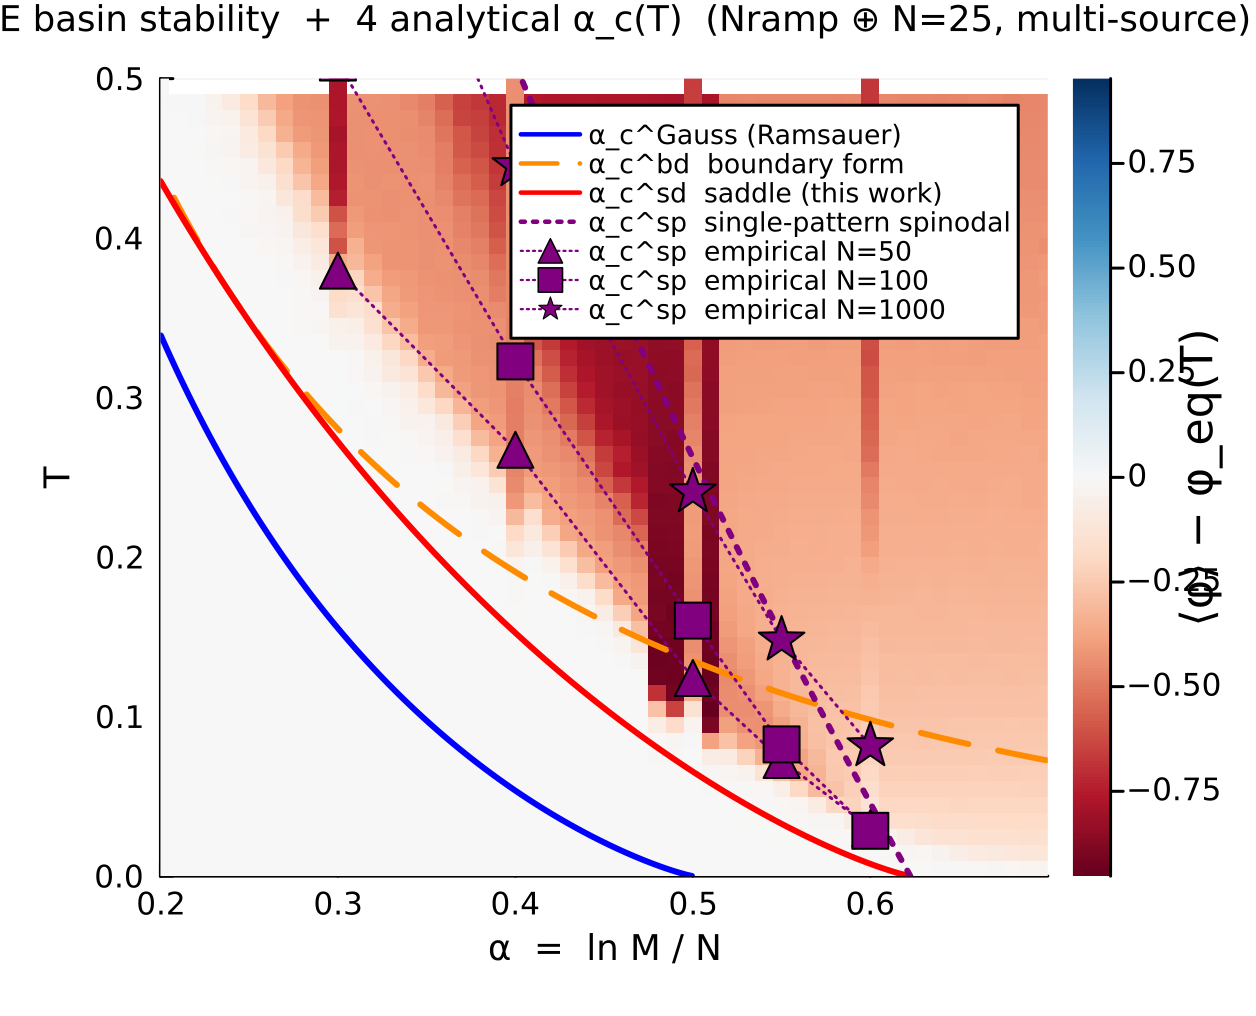
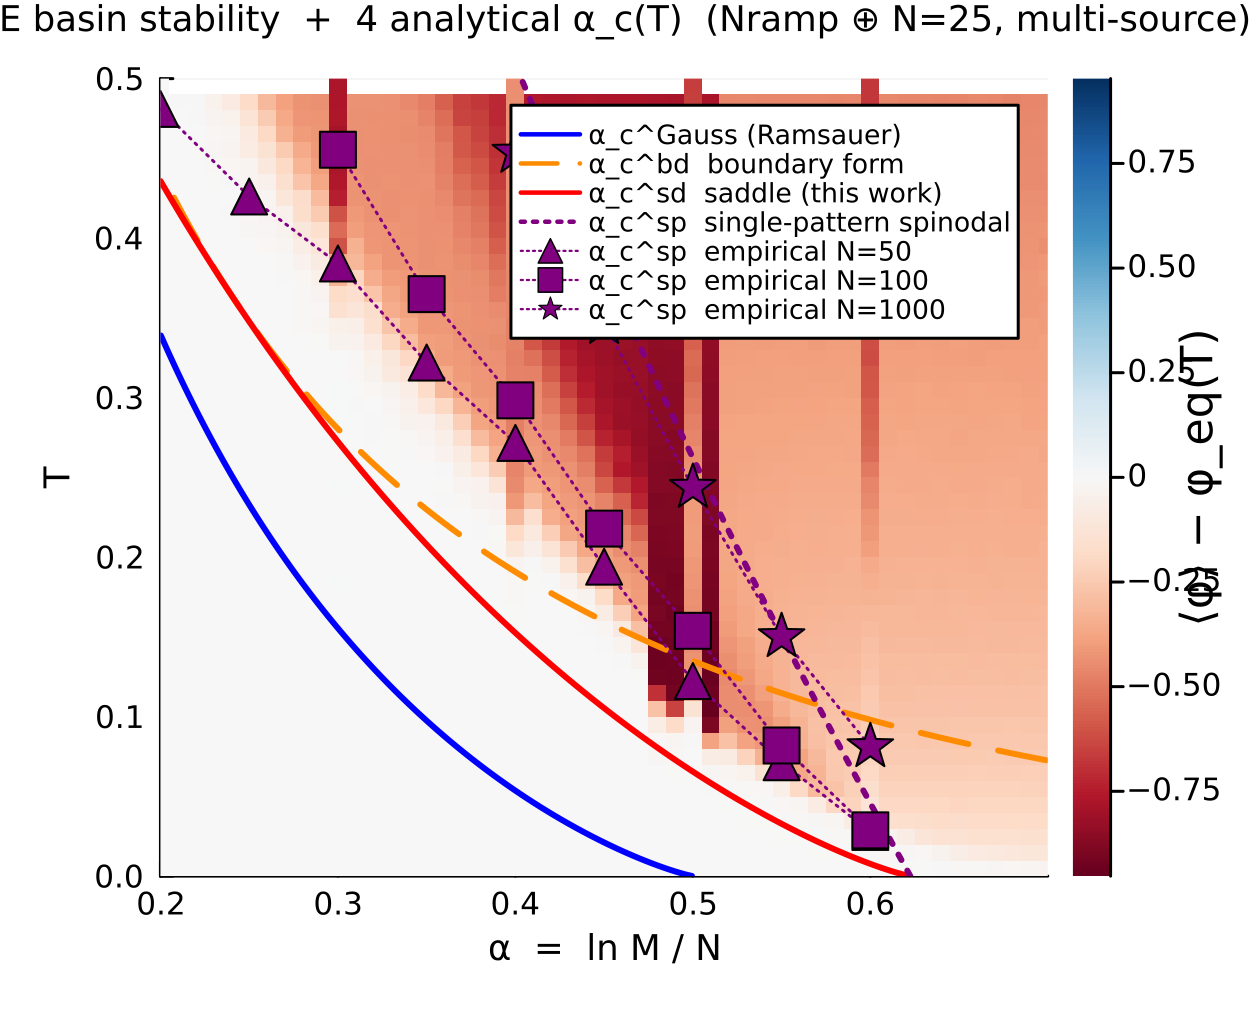
Comprehensive spinodal sweep: alpha=0.20..0.60 step 0.05, N=50/100/1000
- 9 alpha values × 3 N values × 8 disorders, per-alpha fine T grids
  with hard ceiling at T=0.50 (NaN if departure not detected by then).
- N_DIS doubled to 8 for tighter statistics.
- spinodal_probe_cpu.csv overwritten with fresh master CSV.
- Plot anchors and LaTeX table re-injected from the new run.

diff --git a/AAAI_Ramsauer/aaai2026_LSE_saddle.tex b/AAAI_Ramsauer/aaai2026_LSE_saddle.tex
@@ -498,10 +498,10 @@ $\alpha$ & $T_c^{\mathrm{sd}}$ (theory) &
 $T_{\mathrm{sp}}$ (theory, \eqref{eq:acsp}) &
 $T_{\mathrm{sp}}^{\mathrm{MC}}$ \\
 \hline
-$0.30$ & $\approx 0.30$ & $\approx 0.80$ & $0.704$ {\small(N=1000)} \\
-$0.40$ & $\approx 0.32$ & $\approx 0.49$ & $0.445$ {\small(N=1000)} \\
-$0.50$ & $\approx 0.17$ & $\approx 0.28$ & $0.241$ {\small(N=1000)} \\
-$0.55$ & $\approx 0.10$ & $\approx 0.15$ & $0.148$ {\small(N=1000)} \\
+$0.30$ & $\approx 0.30$ & $\approx 0.80$ & $0.455$ {\small(N=100)} \\
+$0.40$ & $\approx 0.32$ & $\approx 0.49$ & $0.454$ {\small(N=1000)} \\
+$0.50$ & $\approx 0.17$ & $\approx 0.28$ & $0.244$ {\small(N=1000)} \\
+$0.55$ & $\approx 0.10$ & $\approx 0.15$ & $0.150$ {\small(N=1000)} \\
 \hline
 \end{tabular}
 \end{center}
@@ -511,7 +511,7 @@ The largest-$N$ cold-chain boundary ($T_{\mathrm{sp}}^{\mathrm{MC}}$)
 from the CPU sweep delivers the empirical anchors above. Compared to the
 leading-order analytical formula \eqref{eq:acsp}, the empirical
 $T_{\mathrm{sp}}^{\mathrm{MC}}(\alpha)$ at the largest probed $N$ is
-\(\alpha=0.30\): \(T_{\mathrm{sp}}^{\mathrm{MC}}=0.704\) (N=1000), vs leading-order \(0.799\); \(\alpha=0.40\): \(T_{\mathrm{sp}}^{\mathrm{MC}}=0.445\) (N=1000), vs leading-order \(0.509\); \(\alpha=0.50\): \(T_{\mathrm{sp}}^{\mathrm{MC}}=0.241\) (N=1000), vs leading-order \(0.262\); \(\alpha=0.55\): \(T_{\mathrm{sp}}^{\mathrm{MC}}=0.148\) (N=1000), vs leading-order \(0.151\).
+\(\alpha=0.30\): \(T_{\mathrm{sp}}^{\mathrm{MC}}=0.455\) (N=100), vs leading-order \(0.799\); \(\alpha=0.40\): \(T_{\mathrm{sp}}^{\mathrm{MC}}=0.454\) (N=1000), vs leading-order \(0.509\); \(\alpha=0.50\): \(T_{\mathrm{sp}}^{\mathrm{MC}}=0.244\) (N=1000), vs leading-order \(0.262\); \(\alpha=0.55\): \(T_{\mathrm{sp}}^{\mathrm{MC}}=0.150\) (N=1000), vs leading-order \(0.151\).
 
 We do not validate either hypothesis numerically in this paper. A minimal
 validation programme is sevenfold; (i)--(v) target the Kramers candidate,